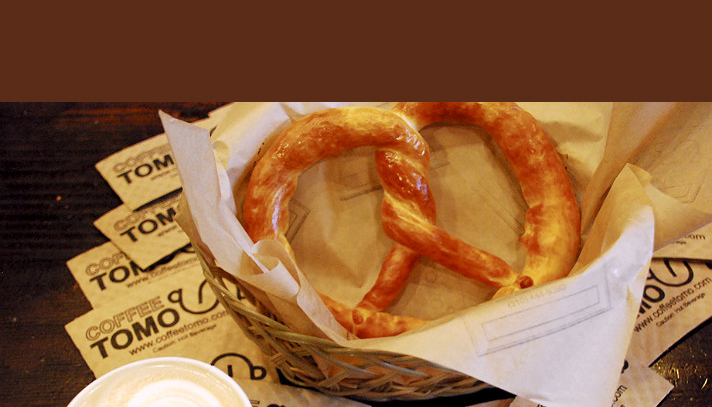
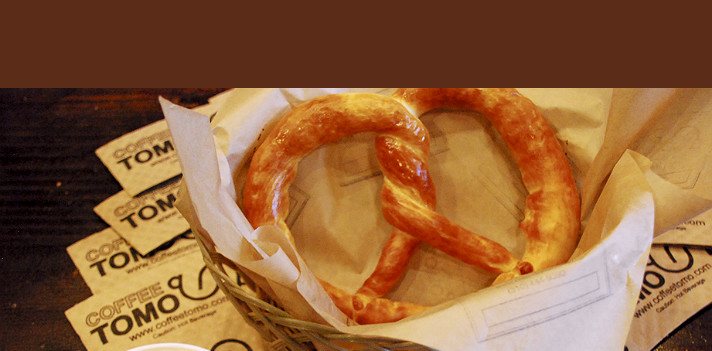
again

diff --git a/location.html b/location.html
@@ -27,16 +27,11 @@
 </div>
 </header>
 
-   <img class="tomo" src="https://raw.githubusercontent.com/liapark/project3/fc8832d327866ba72b4f8453c2f2fbb205b571d7/img/DSC_0457_sml-2.jpg">
+   <img class="tomo" src="https://raw.githubusercontent.com/liapark/project3/d941396b8874c5bf346537d03d64266ebb687810/img/DSC_0457_sml-2.jpg">
   <div class="welcome">
     <h1>LOCATION</h1>
     <p class="line2"> </p>
 
-  <div class="welcome">
-    <h1><br><br><br>LOCATION</h1>
-    <p class="line2"> </p>
-    <img class="tomo2" src="http://4.bp.blogspot.com/-d_8SYULxz68/U3k4ffZ7muI/AAAAAAAAB_E/3w5OWTQcSbo/s1600/DSC_0457_sml.jpg">
->>>>>>> origin/gh-pages
     <h2><br>11309 MISSISSIPPI AVE<br>LOS ANGELES, CA</h2>
     <h3 class="explanation2"><a href="https://www.google.com/maps/place/11309+Mississippi+Ave,+Los+Angeles,+CA+90025/@34.03936,-118.442831,14z/data=!4m2!3m1!1s0x80c2bb74d94a622d:0x7e1d1f05be738ba0?hl=en"><br>Get Directions></a><br><br><br>STORE HOURS<br><br></h3><p>Monday-Thursday: 7:30am-10:00pm<br>Friday: 7:30am-10:30pm<br>Saturday: 9:00am-10:30pm<br>Sunday: 9:00am-9:00pm</p>
 <br><h3 class="explanation2">CONTACT</h3><p><br>Phone: (310) 444-9390<br><a href="coffeetomola@gmail.com">coffeetomola@gmail.com</a><br><br><br></p>
